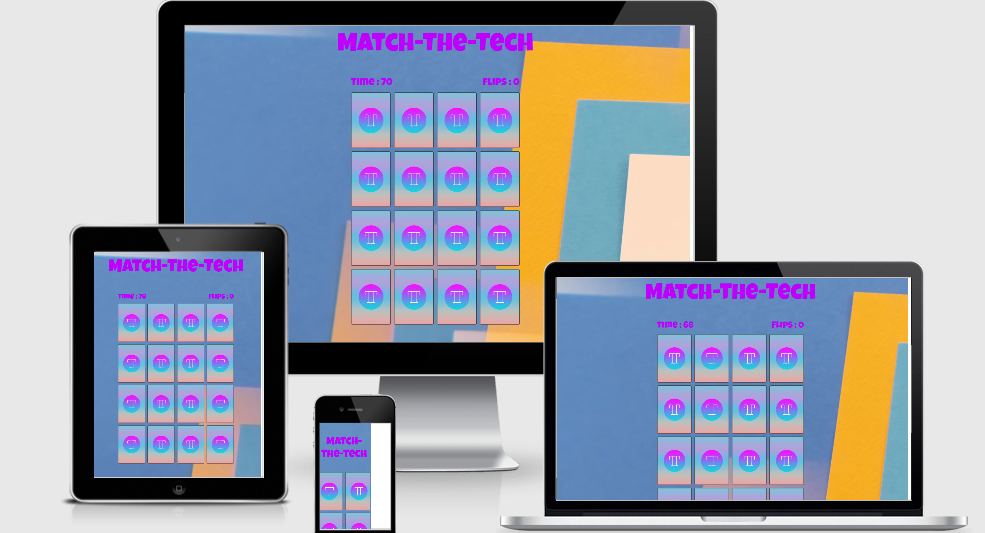
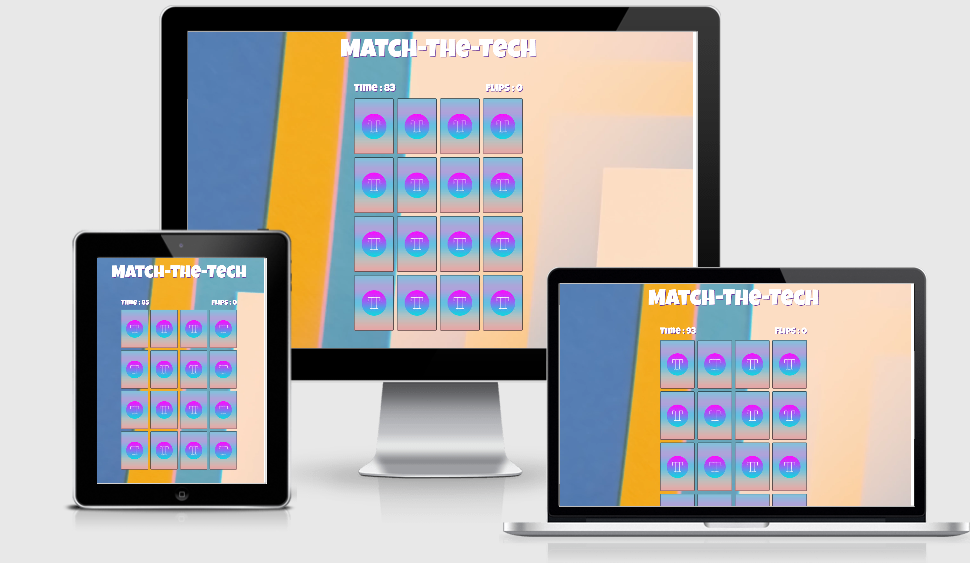
Added screenshots of the code valadation

diff --git a/assets/css/style.css b/assets/css/style.css
@@ -186,6 +186,56 @@ body {
 
     .section {
         height: 100vh;
+        width: 100vh;
+    }
+
+    .game-info-container {
+        padding-left: 20px;
+        padding-right: 20px;
+    }
+    .mute_btn {
+        z-index: 1;
+    }
+
+    .card-container {
+        display: grid;
+        grid-template-columns: repeat(3, auto);
+
+        margin: 0 auto;
+        justify-content: center;
+        perspective: 600px;
+        padding-right: 20px;
+        padding-left: 20px;
+    }
+
+    .card-info-container {
+        flex-direction: column;
+        align-items: center;
+        padding-right: 35px;
+        padding-left: 35px;
+    }
+    .overlay-text-small {
+        font-size: 0.1em;
+        text-align: center;
+    }
+}
+@media (max-width: 800px) {
+    .card-container {
+        grid-template-columns: repeat(2, auto);
+    }
+
+    .page-title {
+        font-family: "Luckiest Guy", cursive;
+        color: #fff;
+        text-align: center;
+        font-size: 3em;
+        z-index: 1;
+        margin: 0 auto;
+        padding-top: 50px;
+    }
+
+    .section {
+        height: 100vh;
         width: 50vh;
     }
 

diff --git a/index.html b/index.html
@@ -15,7 +15,7 @@
         <!-- This is where the background video plays -->
         <div class="section row justify-content-md-center">
             <div class="video-container">
-                <video autoplay loop muted src="assets/pictures/videos/video_background.mp4" type="mp4"></video>
+                <video autoplay loop muted src="assets/pictures/videos/video_background.mp4"></video>
             </div>
 
             <!-- This contains the title and the diffrent overlay texts -->
